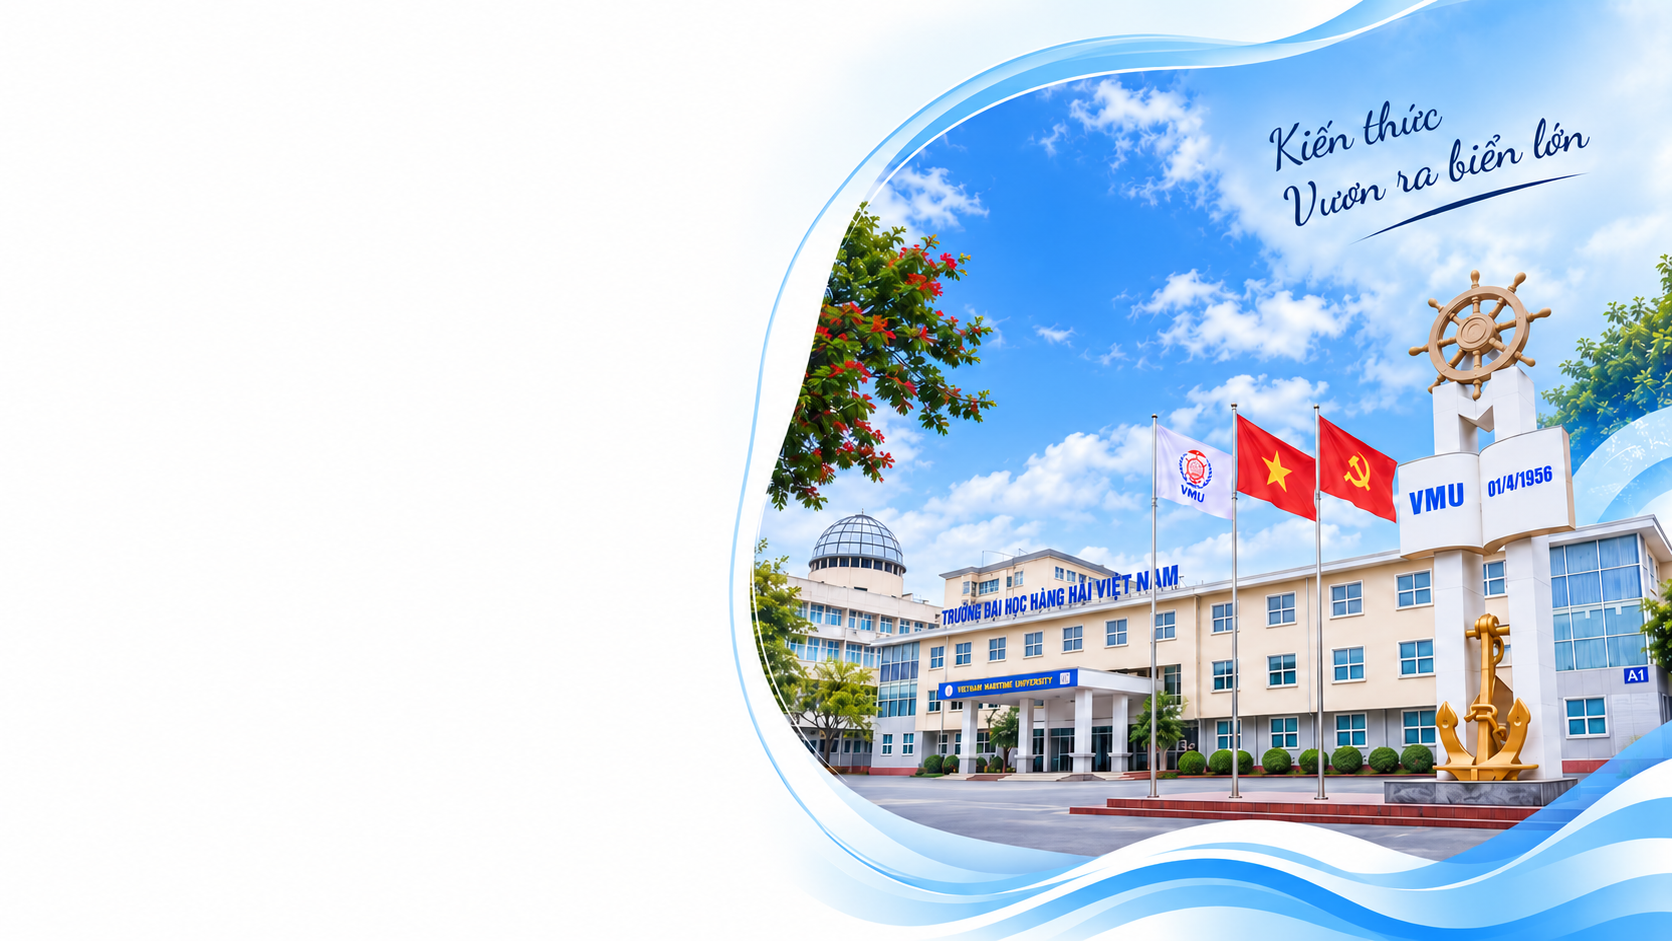
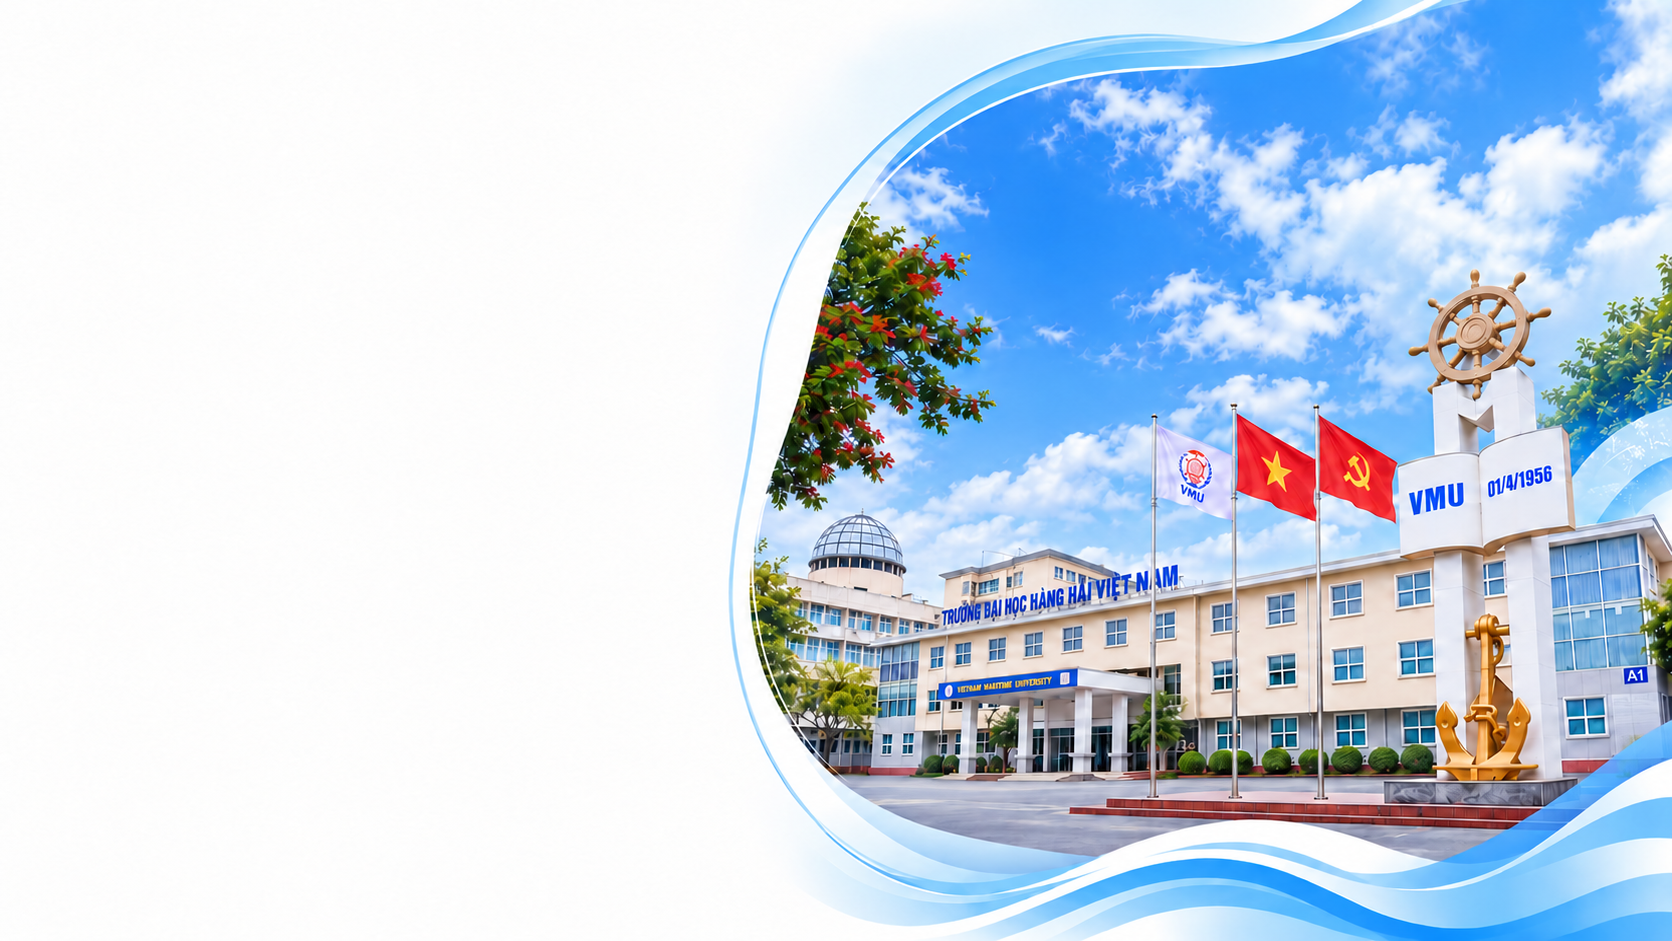
Hoan thien giao dien login quan tri

diff --git a/frontend/src/styles/login-page.css b/frontend/src/styles/login-page.css
@@ -107,3 +107,97 @@
  .login-page .login-internal-note{margin-top:14px;font-size:14px}
  .login-page .login-footer{padding:6px 20px}
 }
+
+/* Requested login-only labels and contact overlays; existing layout is unchanged. */
+.login-page .login-field-heading{display:flex;align-items:center;justify-content:space-between;gap:10px;margin-bottom:10px}
+.login-page .login-field-heading label{margin-bottom:0}
+.login-page .login-domain-badge{flex:none;padding:4px 10px;background:#edf4ff;color:#304b7b;font-size:clamp(12px,.95vw,16px);line-height:1.25;white-space:nowrap}
+.login-page .login-submit-arrow{left:75%}
+.login-page .login-image-contacts{position:absolute;z-index:1;inset:0;pointer-events:none}
+.login-page .login-contact-strip{position:absolute;top:clamp(18px,4dvh,44px);left:56%;right:2.6%;display:flex;align-items:flex-start;gap:12px}
+.login-page .login-contact-chip{display:flex;align-items:center;gap:8px;min-width:0;padding:10px 12px;border:1px solid #ffffff55;background:rgba(5,31,79,.92);color:#fff;box-shadow:0 4px 16px #06265b20;font-size:clamp(10px,.78vw,14px);font-weight:600;line-height:1.4}
+.login-page .login-contact-chip svg{flex:none;width:18px;height:18px}
+.login-page .login-location-chip{flex:1}
+.login-page .login-location-chip>span{min-width:0}
+.login-page .login-hotline-chip{flex:1.12}
+.login-page .login-hotline-copy{display:flex;align-items:center;justify-content:center;flex-wrap:wrap;column-gap:8px;row-gap:2px;min-width:0}
+.login-page .login-hotline-copy>span:first-child,.login-page .login-vietnam-time{white-space:nowrap}
+.login-page .login-vietnam-time{font:inherit;font-weight:500;font-variant-numeric:tabular-nums}
+.login-page .login-contact-separator{color:#a9c4ed}
+.login-page .login-office-email{position:absolute;right:2.6%;bottom:clamp(20px,4dvh,44px);display:flex;align-items:center;gap:14px;padding:14px 20px;border:1px solid #b8d8ff80;background:linear-gradient(110deg,#092959,#05204d);box-shadow:0 6px 20px #06265b25;color:#fff}
+.login-page .login-office-email>svg{flex:none;width:30px;height:30px}
+.login-page .login-office-email>div{display:flex;flex-direction:column;gap:4px}
+.login-page .login-office-email span{font-size:clamp(10px,.8vw,14px);line-height:1.3}
+.login-page .login-office-email strong{font-size:clamp(14px,1.05vw,18px);line-height:1.3;font-weight:700}
+@layer app-square-corners{
+ #root .login-page .login-domain-badge{border-radius:999px!important}
+ #root .login-page .login-contact-chip{border-radius:14px!important}
+ #root .login-page .login-office-email{border-radius:16px!important}
+}
+@media(min-width:1024px){.login-page .login-field-heading{margin-bottom:clamp(6px,1dvh,10px)}.login-page .login-field-heading label{margin-bottom:0}}
+@media(min-width:851px) and (max-width:1200px){
+ .login-page .login-contact-strip{left:52%;right:2%;gap:8px;top:18px;flex-direction:column;align-items:flex-end}
+ .login-page .login-contact-chip{padding:7px 10px;font-size:11px;flex:none}
+ .login-page .login-hotline-copy{flex-wrap:nowrap}
+ .login-page .login-office-email{right:2%;padding:12px 14px;gap:10px}
+}
+@media(max-width:850px){
+ .login-page .login-shell{flex-direction:column;align-items:center}
+ .login-page .login-image-contacts{position:relative;inset:auto;order:2;width:min(540px,100%);padding:0 24px 24px;display:flex;flex-direction:column;gap:12px}
+ .login-page .login-contact-strip{position:static;flex-direction:column;gap:10px;align-items:stretch}
+ .login-page .login-contact-chip{flex:none;font-size:12px;padding:10px 12px}
+ .login-page .login-hotline-copy{justify-content:flex-start;flex-wrap:wrap}
+ .login-page .login-office-email{position:static;padding:14px 16px}
+ .login-page .login-office-email span{font-size:11px}
+ .login-page .login-office-email strong{font-size:15px}
+ .login-page .login-domain-badge{font-size:12px;padding:4px 8px}
+ .login-page .login-field-heading{gap:6px}
+}
+
+/* Login refinement: light contact surfaces and an independent bottom address. */
+.login-page .login-panel-body{min-width:0}
+.login-page .login-contact-chip,.login-page .login-office-email{background:rgba(255,255,255,.87);color:#102d5e;border:1px solid #dbeaffcc;box-shadow:0 3px 12px #12376012;backdrop-filter:blur(8px);-webkit-backdrop-filter:blur(8px)}
+.login-page .login-contact-chip{padding:8px 10px;font-size:clamp(10px,.74vw,13px)}
+.login-page .login-contact-chip svg,.login-page .login-office-email>svg{color:#164b89}
+.login-page .login-contact-separator{color:#7186a5}
+.login-page .login-office-email{padding:12px 16px;gap:12px}
+.login-page .login-office-email>svg{width:26px;height:26px}
+.login-page .login-office-email>div{gap:3px}
+.login-page .login-office-email span{font-size:clamp(10px,.72vw,12px)}
+.login-page .login-office-email strong{font-size:clamp(14px,.94vw,16px)}
+@layer app-square-corners{#root .login-page .login-office-email{border-radius:14px!important}}
+@media(min-width:1201px){
+ .login-page .login-contact-strip{align-items:stretch;justify-content:flex-end;gap:12px}
+ .login-page .login-location-chip,.login-page .login-hotline-chip{flex:0 0 auto}
+ .login-page .login-location-chip>span{white-space:nowrap}
+ .login-page .login-hotline-copy{flex-wrap:nowrap}
+}
+@media(min-width:1024px){
+ .login-page .login-panel-body{flex:1;min-height:0;display:flex;flex-direction:column;justify-content:center;padding-bottom:calc(3.1 * clamp(15px,min(1.3vw,2.2dvh),22px) + clamp(12px,2dvh,24px))}
+ .login-page .login-panel-body>.login-form{flex:none}
+ .login-page .login-panel>.login-internal-note{flex:none;margin-top:auto;padding-top:clamp(14px,2.5dvh,30px)}
+}
+@media(min-width:1024px) and (max-height:850px){
+ .login-page .login-panel-body{padding-bottom:calc(2.9 * clamp(15px,min(1.3vw,2.2dvh),22px) + clamp(12px,2dvh,24px))}
+ .login-page .login-panel>.login-internal-note{padding-top:clamp(14px,2dvh,18px)}
+}
+@media(min-width:1024px) and (max-height:750px){
+ .login-page .login-panel-body{padding-bottom:55.5px}
+ .login-page .login-panel>.login-internal-note{padding-top:14px}
+}
+
+/* Left form rhythm only; artwork, contacts, controls and bottom address are unchanged. */
+.login-page .login-panel-body>.login-brand{margin-bottom:clamp(42px,4.5dvh,48px)}
+.login-page .login-form-header{margin-bottom:22px}
+.login-page .login-field-heading{margin-bottom:clamp(10px,1.2dvh,12px)}
+.login-page .login-field>label{margin-bottom:clamp(10px,1.2dvh,12px)}
+.login-page .login-field-heading label{margin-bottom:0}
+.login-page .login-field:has(#login-email){margin-bottom:clamp(24px,2.8dvh,28px)}
+.login-page .login-field:has(#login-password){margin-bottom:0}
+.login-page .login-submit{margin-top:clamp(20px,2.4dvh,24px)}
+@media(min-width:1024px){
+ .login-page .login-form-header{margin-bottom:calc(clamp(38px,4.3dvh,44px) - clamp(10px,1.5dvh,17px) - 4px)}
+}
+@media(min-width:1024px) and (max-height:750px){
+ .login-page .login-form-header{margin-bottom:calc(clamp(38px,4.3dvh,44px) - 14px)}
+}

diff --git a/frontend/src/components/login.jsx b/frontend/src/components/login.jsx
@@ -1,13 +1,14 @@
 import React, { useEffect, useState } from "react";
 import axios from "axios";
 import { useNavigate } from "react-router-dom";
-import { MailOutlineRounded, LockOutlined, VisibilityOffRounded, VisibilityRounded, ArrowForwardRounded, InfoOutlined } from "@mui/icons-material";
+import { MailOutlineRounded, LockOutlined, VisibilityOffRounded, VisibilityRounded, ArrowForwardRounded, LocationOnOutlined, PhoneRounded } from "@mui/icons-material";
 import { ToastContainer, toast } from "react-toastify";
 import "react-toastify/dist/ReactToastify.css";
 import LoginIllustration from "../images/login-campus-reference.png";
 import LoginLogo from "../images/login-vmu-logo.png";
 import { BRAND } from "../config/branding";
 import { API_BASE_URL } from "../config/http";
+import LoginClock from "./loginClock";
 
 export const loginErrorMessage = (error) => {
   const payload = error?.response?.data;
@@ -56,21 +57,35 @@ const Login = () => {
         <img className="login-visual-image" src={LoginIllustration} alt="" fetchpriority="high" />
       </aside>
 
+      <div className="login-image-contacts" aria-label="Thông tin liên hệ Viện Đào tạo Sau đại học">
+        <div className="login-contact-strip">
+          <div className="login-contact-chip login-location-chip">
+            <LocationOnOutlined aria-hidden="true" /><span>Phòng 203, Nhà A6, 484 Lạch Tray, Hải Phòng</span>
+          </div>
+          <div className="login-contact-chip login-hotline-chip">
+            <PhoneRounded aria-hidden="true" />
+            <div className="login-hotline-copy"><span>HOTLINE: 0225.3.735.879</span><span className="login-contact-separator" aria-hidden="true">|</span><LoginClock /></div>
+          </div>
+        </div>
+        <div className="login-office-email">
+          <MailOutlineRounded aria-hidden="true" /><div><span>EMAIL CÔNG VỤ VIỆN SDH</span><strong>sdh@vimaru.edu.vn</strong></div>
+        </div>
+      </div>
+
       <div className="login-panel">
+        <div className="login-panel-body">
         <header className="login-brand">
           <img className="login-form-logo" src={LoginLogo} alt={`Biểu trưng ${BRAND.university}`} />
           <div className="login-brand-text"><strong>{BRAND.university}</strong><span>{BRAND.institute}</span></div>
         </header>
         <form className="login-form" onSubmit={handleSubmit} noValidate>
           <div className="login-form-header">
-            <p className="login-institute">CỔNG QUẢN LÝ ĐÀO TẠO</p>
-            <h2 id="login-title">Đăng nhập hệ thống</h2>
+            <h2 id="login-title">Đăng nhập quản trị</h2>
             <span className="login-title-rule" aria-hidden="true" />
-            <p className="login-description">Sử dụng tài khoản nội bộ đã được cấp để<br className="login-description-break" /> truy cập hệ thống quản lý đào tạo sau đại học.</p>
           </div>
 
           <div className="login-field">
-            <label htmlFor="login-email">Địa chỉ email</label>
+            <div className="login-field-heading"><label htmlFor="login-email">Địa chỉ email công vụ</label><span className="login-domain-badge">@vimaru.edu.vn</span></div>
             <div className="login-input-wrap">
               <MailOutlineRounded className="login-input-icon" aria-hidden="true" />
               <input id="login-email" name="email" type="email" value={values.email} onChange={handleChange}
@@ -79,7 +94,7 @@ const Login = () => {
           </div>
 
           <div className="login-field">
-            <label htmlFor="login-password">Mật khẩu</label>
+            <label htmlFor="login-password">Mật khẩu quản trị</label>
             <div className="login-input-wrap">
               <LockOutlined className="login-input-icon" aria-hidden="true" />
               <input id="login-password" name="password" type={showPassword ? "text" : "password"}
@@ -87,14 +102,14 @@ const Login = () => {
                 autoComplete="current-password" minLength="8" required />
               <button className="login-password-toggle" type="button" onClick={() => setShowPassword((current) => !current)}
                 aria-label={showPassword ? "Ẩn mật khẩu" : "Hiện mật khẩu"} aria-pressed={showPassword}>
-                {showPassword ? <VisibilityOffRounded /> : <VisibilityRounded />}
+                {showPassword ? <VisibilityRounded /> : <VisibilityOffRounded />}
               </button>
             </div>
           </div>
 
           <button className="login-submit" type="submit" disabled={submitting}>
             {submitting && <span className="login-spinner" aria-hidden="true" />}
-            {submitting ? "Đang đăng nhập..." : "Đăng nhập"}
+            {submitting ? "Đang đăng nhập..." : "Đăng nhập hệ thống"}
             <ArrowForwardRounded className="login-submit-arrow" aria-hidden="true" />
           </button>
 
@@ -107,9 +122,10 @@ const Login = () => {
             </>
           )}
 
-          <p className="login-internal-note"><InfoOutlined aria-hidden="true" /><span>Liên hệ quản trị viên nếu cần cấp tài khoản.</span></p>
           <ToastContainer newestOnTop limit={2} />
         </form>
+        </div>
+        <p className="login-internal-note"><LocationOnOutlined aria-hidden="true" /><span>Nhà A6, 484 Lạch Tray, Hải Phòng</span></p>
       </div>
     </section>
   );

diff --git a/frontend/src/test/unit/loginPresentation.test.jsx b/frontend/src/test/unit/loginPresentation.test.jsx
@@ -1,0 +1,31 @@
+import React from "react";
+import { act, fireEvent, render, screen } from "@testing-library/react";
+import axios from "axios";
+import { toast } from "react-toastify";
+import Login from "../../components/login";
+
+const mockNavigate = jest.fn();
+jest.mock("axios");
+jest.mock("react-router-dom", () => ({ useNavigate: () => mockNavigate }));
+jest.mock("react-toastify", () => ({ ToastContainer: () => null, toast: { success: jest.fn(), error: jest.fn() } }));
+
+it("keeps the typed email and the existing login submission/navigation contract", async () => {
+  axios.get.mockResolvedValue({ data: { googleAuthEnabled: false } });
+  let completeLogin;
+  axios.post.mockImplementation(() => new Promise(resolve => { completeLogin = resolve; }));
+  render(<Login />);
+  await act(async () => {});
+  fireEvent.change(screen.getByLabelText("Địa chỉ email công vụ"), { target: { value: "admin@example.com" } });
+  const password = screen.getByLabelText("Mật khẩu quản trị");
+  fireEvent.change(password, { target: { value: "Demo-password-123" } });
+  fireEvent.click(screen.getByRole("button", { name: "Hiện mật khẩu" }));
+  expect(password).toHaveAttribute("type", "text");
+  fireEvent.click(screen.getByRole("button", { name: "Ẩn mật khẩu" }));
+  expect(password).toHaveAttribute("type", "password");
+  fireEvent.submit(screen.getByRole("button", { name: "Đăng nhập hệ thống" }).closest("form"));
+  expect(axios.post).toHaveBeenCalledWith("/user/login", { email: "admin@example.com", password: "Demo-password-123" }, { withCredentials: true });
+  expect(screen.getByRole("button", { name: "Đang đăng nhập..." })).toBeDisabled();
+  await act(async () => { completeLogin({ data: {} }); });
+  expect(mockNavigate).toHaveBeenCalledWith("/", { replace: true });
+  expect(toast.success).toHaveBeenCalled();
+});

diff --git a/frontend/src/test/unit/loginClock.test.jsx b/frontend/src/test/unit/loginClock.test.jsx
@@ -1,0 +1,16 @@
+import React from "react";
+import { act, render, screen } from "@testing-library/react";
+import LoginClock from "../../components/loginClock";
+
+describe("login Vietnam clock", () => {
+  beforeEach(() => { jest.useFakeTimers(); jest.setSystemTime(new Date("2026-10-16T15:04:05Z")); });
+  afterEach(() => { jest.useRealTimers(); });
+  it("formats UTC+7 and updates every second", () => {
+    const { unmount } = render(<LoginClock />);
+    expect(screen.getByText("22:04:05 GMT+7")).toHaveAttribute("datetime", "2026-10-16T15:04:05.000Z");
+    act(() => { jest.advanceTimersByTime(1000); });
+    expect(screen.getByText("22:04:06 GMT+7")).toBeInTheDocument();
+    unmount();
+    expect(jest.getTimerCount()).toBe(0);
+  });
+});

diff --git a/frontend/src/components/loginClock.jsx b/frontend/src/components/loginClock.jsx
@@ -1,0 +1,15 @@
+import React, { useEffect, useState } from "react";
+
+const vietnamTime = new Intl.DateTimeFormat("en-GB", {
+  timeZone: "Asia/Ho_Chi_Minh",
+  hour: "2-digit", minute: "2-digit", second: "2-digit", hour12: false,
+});
+
+export default function LoginClock() {
+  const [now, setNow] = useState(() => new Date());
+  useEffect(() => {
+    const interval = setInterval(() => setNow(new Date()), 1000);
+    return () => clearInterval(interval);
+  }, []);
+  return <time className="login-vietnam-time" dateTime={now.toISOString()} aria-label="Giờ Việt Nam">{vietnamTime.format(now)} GMT+7</time>;
+}
